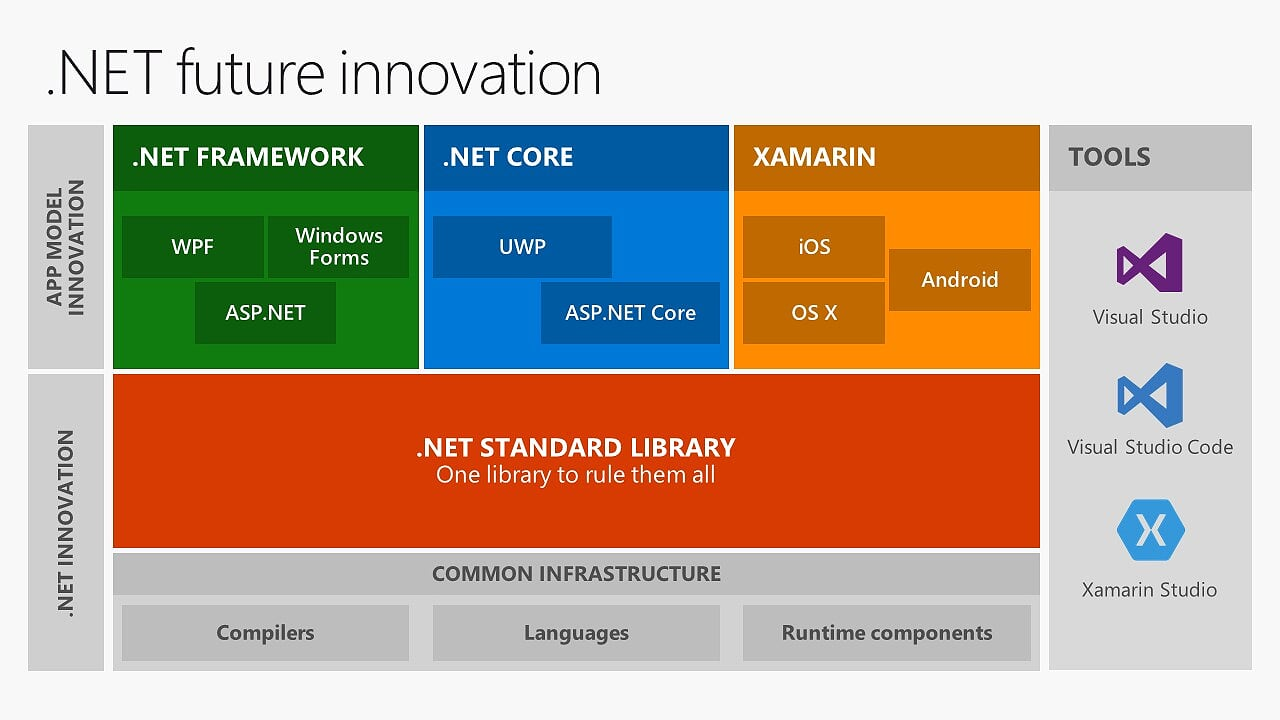
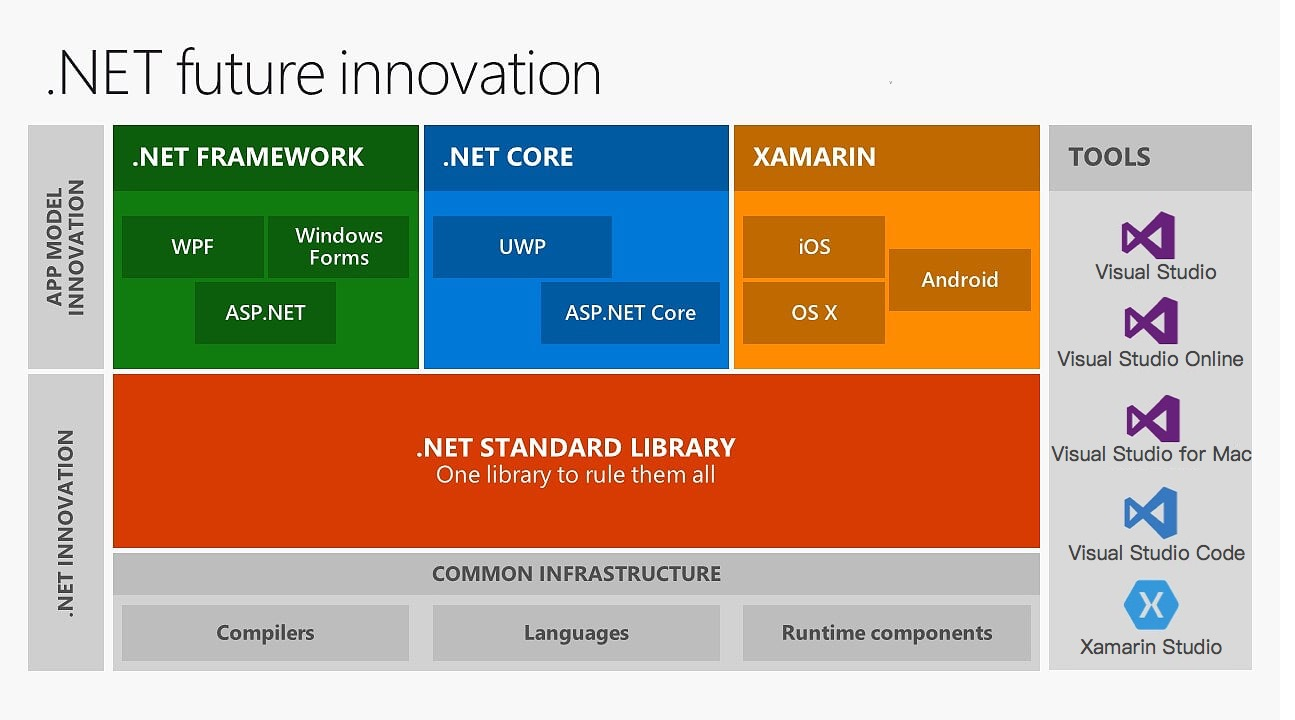
Update

diff --git a/source/_posts/ASP-NET-and-ASP-NET-Core-NET-Framework-and-NET-core-and-NET-Standard.md b/source/_posts/ASP-NET-and-ASP-NET-Core-NET-Framework-and-NET-core-and-NET-Standard.md
@@ -16,7 +16,68 @@ tags:
 - .NET Standard
 ---
 
+介紹 .NET Core 與 .NET Framework 與 ASP.NET Core的差別
+
 <!-- More -->
+
+![cover.png](cover.png)
+
+最近在推廣 .NET Core 上最常遇到的幾個問題：
+
+- .NET Core 與 .NET Framework 的差別？
+- .NET Core 與 Mono 的差別？
+- .NET Core 與 ASP.NET Core 的差別？
+- 什麼是 .NET Standard?
+- .NET Standard 與 .NET Core 的關係？
+- 現在在用的 ASP.NET MVC5 & WebAPI2 跟 ASP.NET Core 的差別？
+
+因為這個些問題是學習 .NET Core 的必要知識，所以就整理了一篇與大家分享．
+
+## .NET Overview ##
+
+整個.NET 的開發我們可以從下面這張圖看到這幾年到未來的一個趨勢：
+
+![future-innovation_detail.png](future-innovation_detail.png)
+
+當我們加入了開發工具來看整個微軟針對開發的佈局就如下圖：
+
+![future-innovation_detail](future-innovation_detail.png)
+
+### .NET Framework ###
+
+### Mono ###
+
+### .NET Core ###
+
+### .NET Standard ###
+
+### ASP.NET and ASP.NET Core ###
+
+#### ASP.NET Overview ####
+
+![Web_Overview](Web_Overview.bmp)
+
+#### ASP.NET Web Form and ASP.NET MVC Different ####
+
+![WebForms_WebMVC.gif](WebForms_WebMVC.gif)
+
+### ASP.NET MVC and ASP.NET WebAPI Different ###
+
+
+
+## Q&A ##
+
+### Q: .NET Core 與 .NET Framework 的差別 ###
+
+### Q: .NET Core 與 Mono 的差別？###
+
+### Q: .NET Core 與 ASP.NET Core 的差別？###
+
+### Q: 什麼是 .NET Standard? ###
+
+### Q: .NET Standard 與 .NET Core 的關係？###
+
+### Q: 現在在用的 ASP.NET MVC5 & WebAPI2 跟 ASP.NET Core 的差別？###
 
 ## References ##
 
